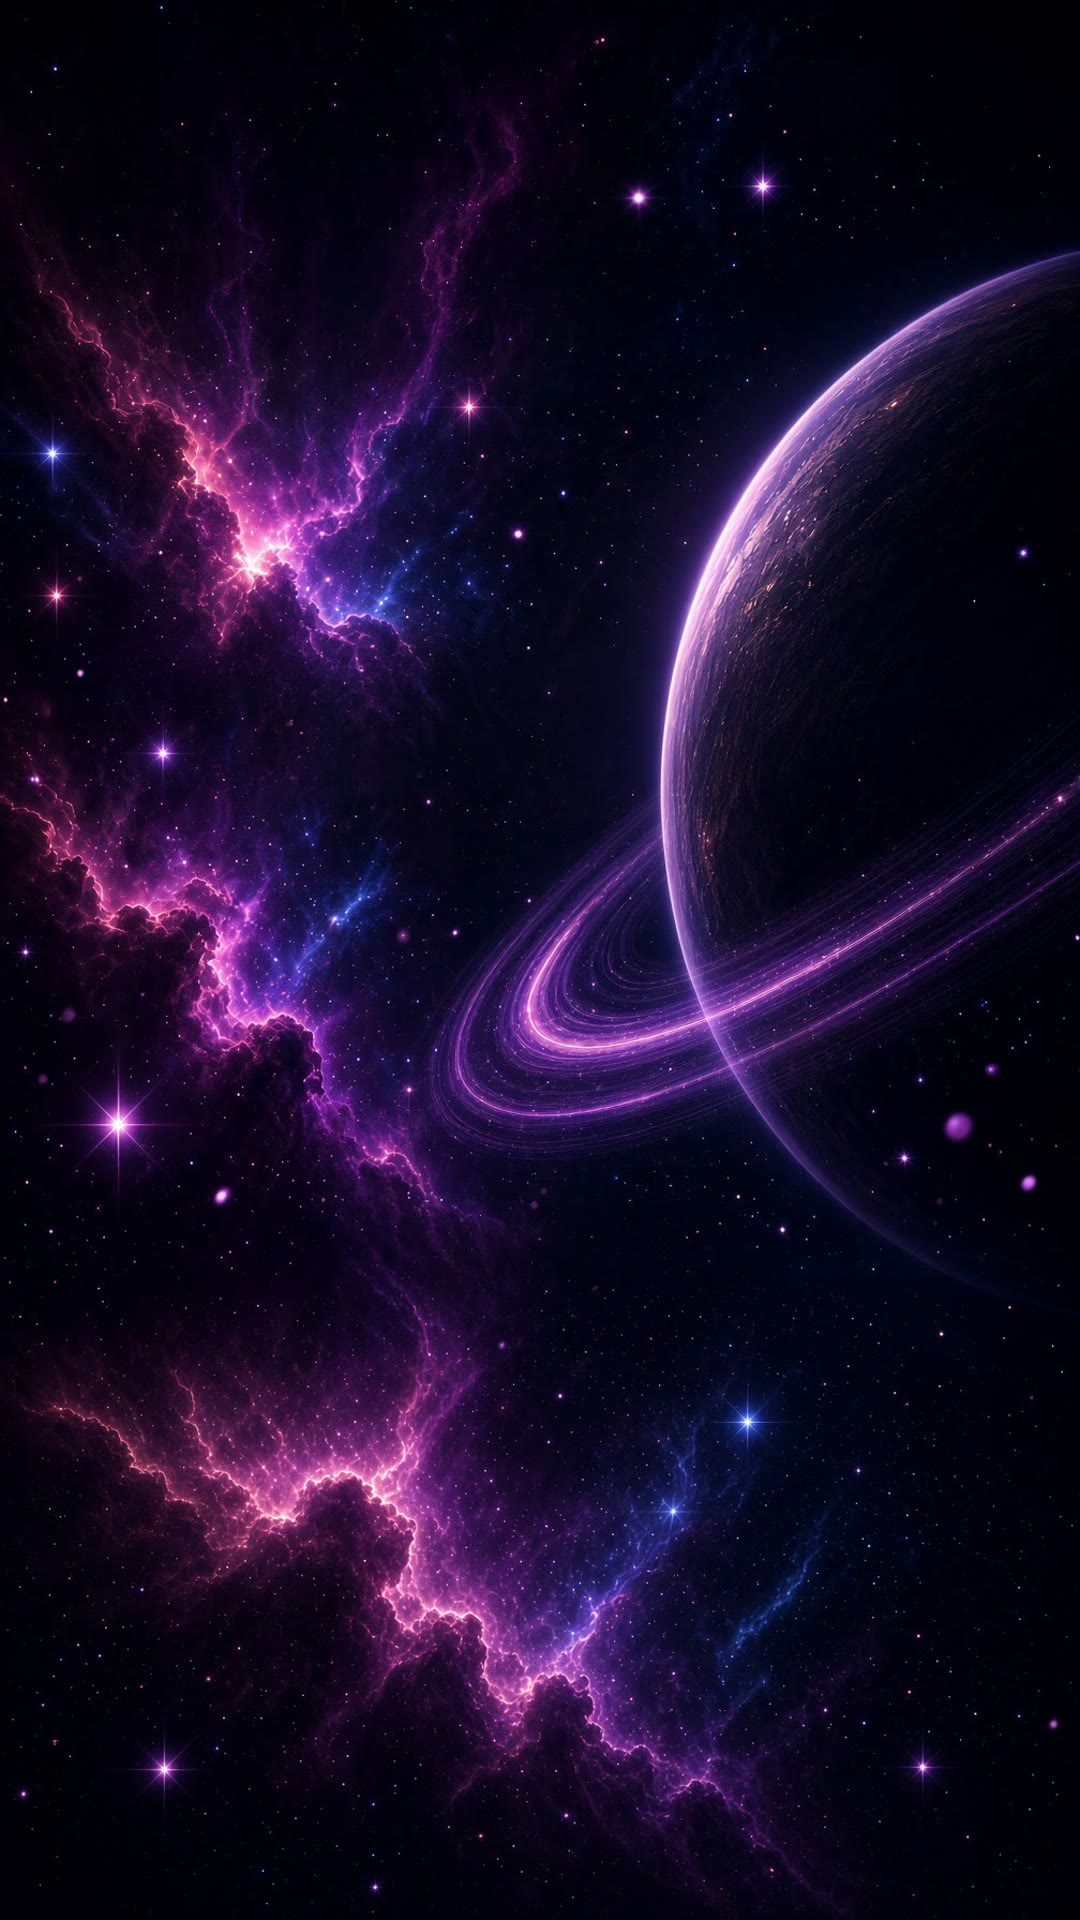
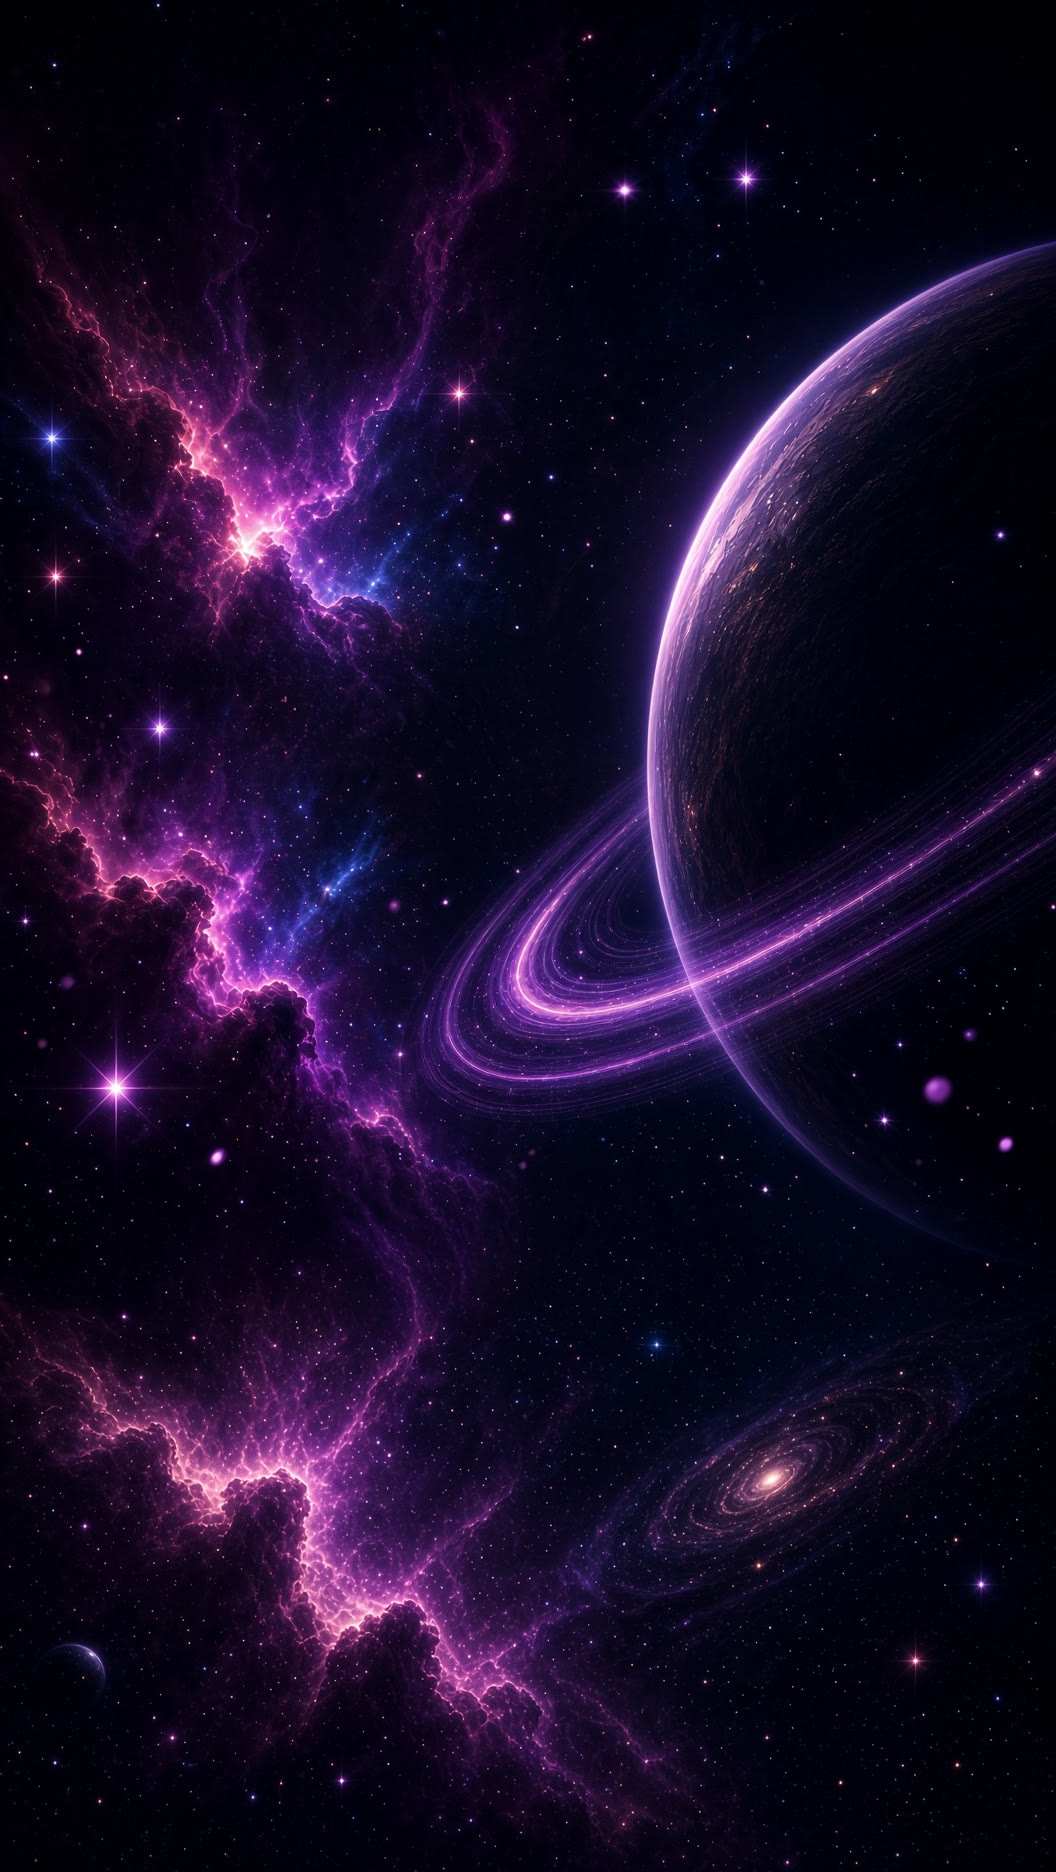
Apply Figma cosmos bg + cyan EN/timer neon; keep CSS TR card.
Swap in optimized zip cosmos (webp+jpg), restyle EN highlight and timer chips from design refs, leave magenta→cyan option cards as CSS-only.

diff --git a/src/App.css b/src/App.css
@@ -89,8 +89,13 @@ body,
 .cosmos-photo {
   position: absolute;
   inset: 0;
-  background:
-    url('/english-swipe-learn/bg-cosmos.jpg') center / cover no-repeat;
+  /* jpg fallback; webp when supported (new zip cosmos, optimized) */
+  background: url('/english-swipe-learn/bg-cosmos.jpg') center / cover no-repeat;
+  background: image-set(
+      url('/english-swipe-learn/bg-cosmos.webp') type('image/webp'),
+      url('/english-swipe-learn/bg-cosmos.jpg') type('image/jpeg')
+    )
+    center / cover no-repeat;
 }
 
 .cosmos-vignette {
@@ -189,18 +194,20 @@ body,
 }
 
 .timer-chip {
-  background: rgba(12, 10, 20, 0.78);
-  border: 1px solid rgba(255, 255, 255, 0.16);
-  color: #9aa3b5;
+  /* inactive: dark translucent pills (timer_buttons_transparent) */
+  background: rgba(8, 10, 18, 0.55);
+  border: 1px solid rgba(180, 190, 210, 0.22);
+  color: rgba(170, 180, 198, 0.88);
   font-size: 0.68rem;
   font-weight: 600;
   letter-spacing: 0.02em;
-  padding: 5px 11px;
+  padding: 5px 12px;
   min-height: 28px;
-  min-width: 34px;
+  min-width: 36px;
   border-radius: var(--radius-pill);
   cursor: pointer;
   line-height: 1.1;
+  box-shadow: none;
   transition:
     background 0.2s ease,
     border-color 0.2s ease,
@@ -209,12 +216,16 @@ body,
 }
 
 .timer-chip.on {
-  background: rgba(10, 14, 28, 0.88);
-  border-color: #67e8f9;
-  color: #f8fafc;
+  /* selected: darker blue-ish fill + bright cyan neon ring (selected_10s) */
+  background: rgba(6, 12, 28, 0.92);
+  border-color: #5ef0ff;
+  color: #ffffff;
   box-shadow:
-    0 0 6px rgba(103, 232, 249, 0.55),
-    0 0 14px rgba(34, 211, 238, 0.28);
+    0 0 0 1px rgba(94, 240, 255, 0.55),
+    0 0 6px rgba(0, 234, 255, 0.85),
+    0 0 14px rgba(0, 200, 255, 0.55),
+    0 0 28px rgba(34, 211, 238, 0.35),
+    inset 0 0 8px rgba(0, 200, 255, 0.12);
 }
 
 .timer-count {
@@ -383,21 +394,23 @@ body,
 }
 
 .en-highlight {
+  /* highlight_box_transparent: thin bright cyan core + soft bloom, light fill */
   display: inline;
-  padding: 0.08em 0.48em 0.1em;
+  padding: 0.1em 0.5em 0.12em;
   margin: 0 0.04em;
-  border-radius: 999px;
+  border-radius: 12px;
   color: #fff;
   font-weight: 650;
-  border: 1.5px solid rgba(34, 211, 238, 0.95);
-  /* Keep the full target phrase as one pill — never split across lines */
+  border: 1.25px solid #5ef0ff;
+  /* Keep the full target phrase as one contiguous unit — never split across lines */
   white-space: nowrap;
-  background: rgba(8, 16, 28, 0.4);
+  background: rgba(8, 18, 32, 0.18);
   box-shadow:
-    0 0 3px rgba(34, 211, 238, 0.55),
-    0 0 8px rgba(34, 211, 238, 0.35),
-    0 0 16px rgba(103, 232, 249, 0.2),
-    inset 0 0 5px rgba(34, 211, 238, 0.08);
+    0 0 2px rgba(94, 240, 255, 0.95),
+    0 0 6px rgba(0, 234, 255, 0.7),
+    0 0 14px rgba(34, 211, 238, 0.4),
+    0 0 24px rgba(103, 232, 249, 0.22),
+    inset 0 0 6px rgba(94, 240, 255, 0.15);
 }
 
 
